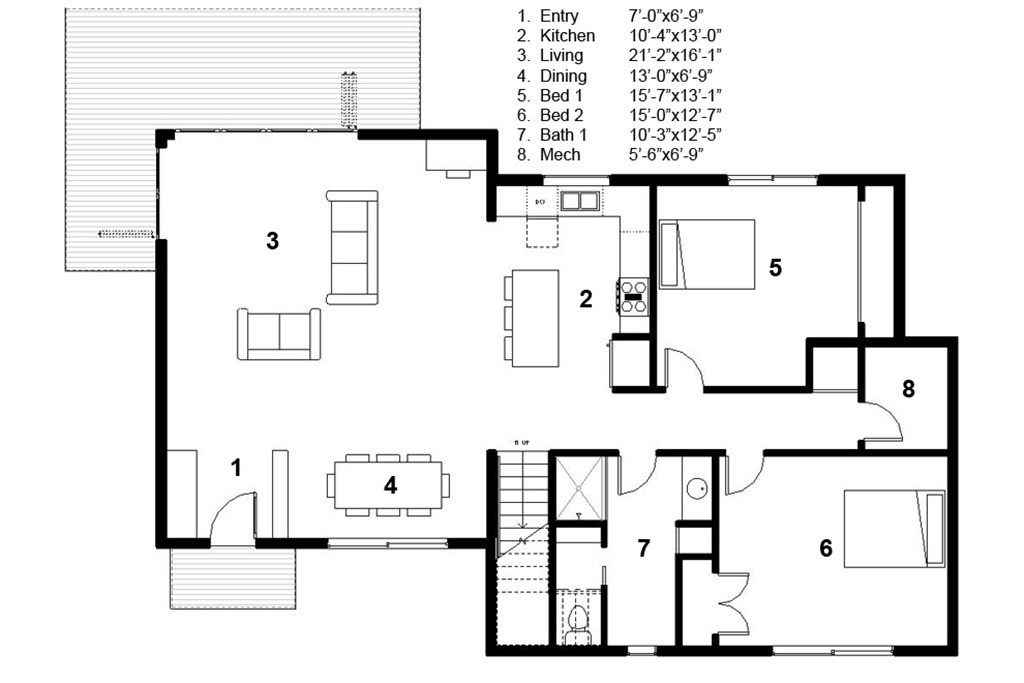
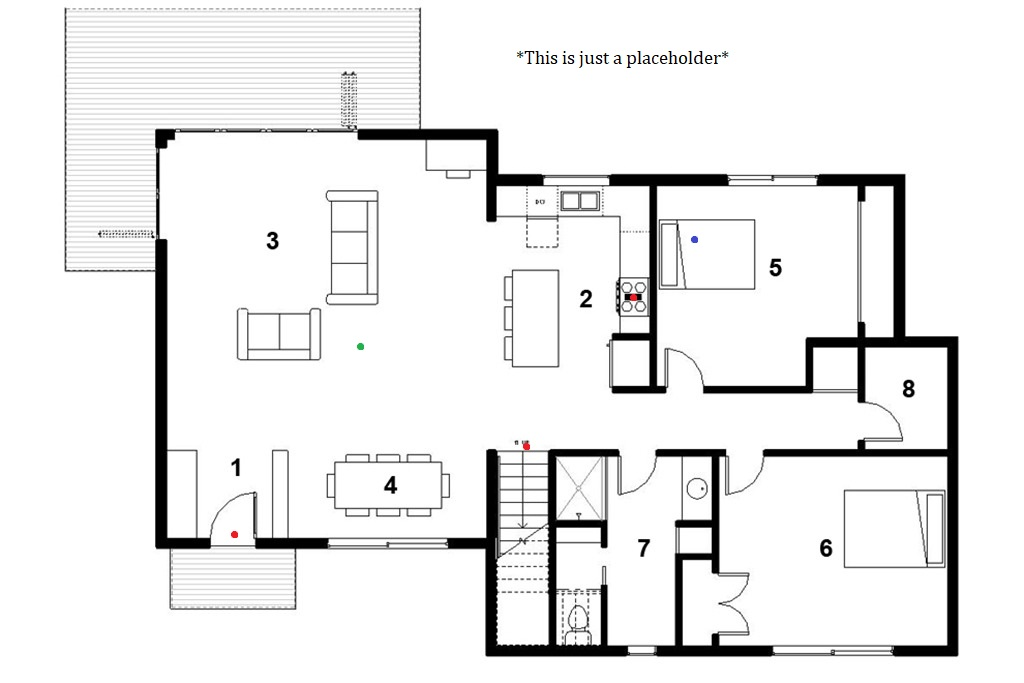
Finished map placeholders

Changed region(s): [[0.5, 0.0, 0.7188, 0.246]]

diff --git a/styleSheet.css b/styleSheet.css
@@ -89,6 +89,7 @@ section
 	background-color:#ffffff;
 	text-align:center;
 	position:relative;
+	overflow:auto;
 }
 
 main
@@ -103,20 +104,20 @@ main
 section > div
 {
 	height:auto;
-	width:8vw;
+	width:10vw;
 	position:absolute;
 	padding:0;
 	margin:0;
 	right:0;
-	bottom:0;
-	background-color: rgba(255, 26, 26,0.5);
+	top:0;
+	background-color: rgba(255, 26, 26,0.4);
 }
 
 div > label
 {
 	display:block;
 	font-size:1.5vw;
-	background: url(down.png) no-repeat center;
+	background: url(up.png) no-repeat center;
 	background-size:2vw;
 }
 
@@ -157,14 +158,15 @@ div > input:checked ~ ul > li
 div > input:checked ~ label 
 {
 	display:block;
-	background: url(up.png) no-repeat center;
+	background: url(down.png) no-repeat center;
 	background-size:2vw;
 }
 
+
 section > img
 {
-	height:81vh;
-	width:74vw;
+	height:auto;
+	width:auto;
 	position: absolute;
 	top:0;
 	left:0;
@@ -194,4 +196,28 @@ aside > label
 	font-weight:900;
 	display:block;
 	position:absoulte;
+}
+
+section ul 
+{
+	display:grid;
+	grid-template-columns:1vw 2vw;
+	grid-auto-rows : 4vw;
+	grid-column-gap: 3vw;
+}
+
+section  ul > li 
+{
+	margin-left:1vh;
+}
+
+section  ul > li > img 
+{
+	width:1vw;
+}
+
+aside > div
+{
+	display: block;
+	overflow:auto;
 }

diff --git a/map.html b/map.html
@@ -6,7 +6,7 @@
 <meta charset="UTF-16">
 <meta name="viewport" content="width=device-width, initial-scale=1">
 <link rel="stylesheet" href="weather.css">
-<link rel="stylesheet" media="(max-width: 949px)" href="weather-2-large.css">
+<link rel="stylesheet" media="(max-width: 949px)" href="lowRez.css">
 <link rel="stylesheet" media="(min-width:950px)" href="styleSheet.css">
 </head>
 
@@ -30,9 +30,16 @@
 </nav>
 
 <aside>
-
-<p>Allerts or something</p>
-
+<div>
+<p>Baby is safe</p>
+<p style=" text-decoration: underline; color:red;">Baby is near danger!</p>
+<p style=" text-decoration: underline; color:red;">Baby is near danger!</p>
+<p style=" text-decoration: underline; color:red;">Baby is near danger!</p>
+<p >Baby is safe</p>
+<p>Baby is safe</p>
+<p>Baby is safe</p>
+<p>Baby is safe</p>
+</div>
 
 </aside>
 
@@ -49,12 +56,10 @@
 
 <ul>
 
-<li>Image1</li>
-<li>Image2</li>
-<li>Image3</li>
-<li>Image4</li>
-<li>Image5</li>
-<li>Image6</li>
+<li><img src="you.png">You</li>
+<li><img src="baby.png">Baby</li>
+<li><img src="walls.png">Wall</li>
+<li><img src="danger.png">Danger Spot</li>
 
 </ul>
 

diff --git a/contact.html b/contact.html
@@ -6,7 +6,7 @@
 <meta charset="UTF-16">
 <meta name="viewport" content="width=device-width, initial-scale=1">
 <link rel="stylesheet" href="weather.css">
-<link rel="stylesheet" media="(max-width: 949px)" href="weather-2-large.css">
+<link rel="stylesheet" media="(max-width: 949px)" href="lowRez.css">
 <link rel="stylesheet" media="(min-width:950px)" href="styleSheetModified.css">
 </head>
 

diff --git a/detailsChild.html b/detailsChild.html
@@ -6,7 +6,7 @@
 <meta charset="UTF-16">
 <meta name="viewport" content="width=device-width, initial-scale=1">
 <link rel="stylesheet" href="weather.css">
-<link rel="stylesheet" media="(max-width: 949px)" href="weather-2-large.css">
+<link rel="stylesheet" media="(max-width: 949px)" href="lowRez.css">
 <link rel="stylesheet" media="(min-width:950px)" href="styleSheetModified.css">
 </head>
 

diff --git a/login.html b/login.html
@@ -6,7 +6,7 @@
 <meta charset="UTF-16">
 <meta name="viewport" content="width=device-width, initial-scale=1">
 <link rel="stylesheet" href="weather.css">
-<link rel="stylesheet" media="(max-width: 949px)" href="weather-2-large.css">
+<link rel="stylesheet" media="(max-width: 949px)" href="lowRez.css">
 <link rel="stylesheet" media="(min-width:950px)" href="styleSheetModified.css">
 </head>
 

diff --git a/index.html b/index.html
@@ -6,7 +6,7 @@
 <meta charset="UTF-16">
 <meta name="viewport" content="width=device-width, initial-scale=1">
 <link rel="stylesheet" href="weather.css">
-<link rel="stylesheet" media="(max-width: 949px)" href="weather-2-large.css">
+<link rel="stylesheet" media="(max-width: 949px)" href="lowRez.css">
 <link rel="stylesheet" media="(min-width:950px)" href="styleSheet.css">
 </head>
 
